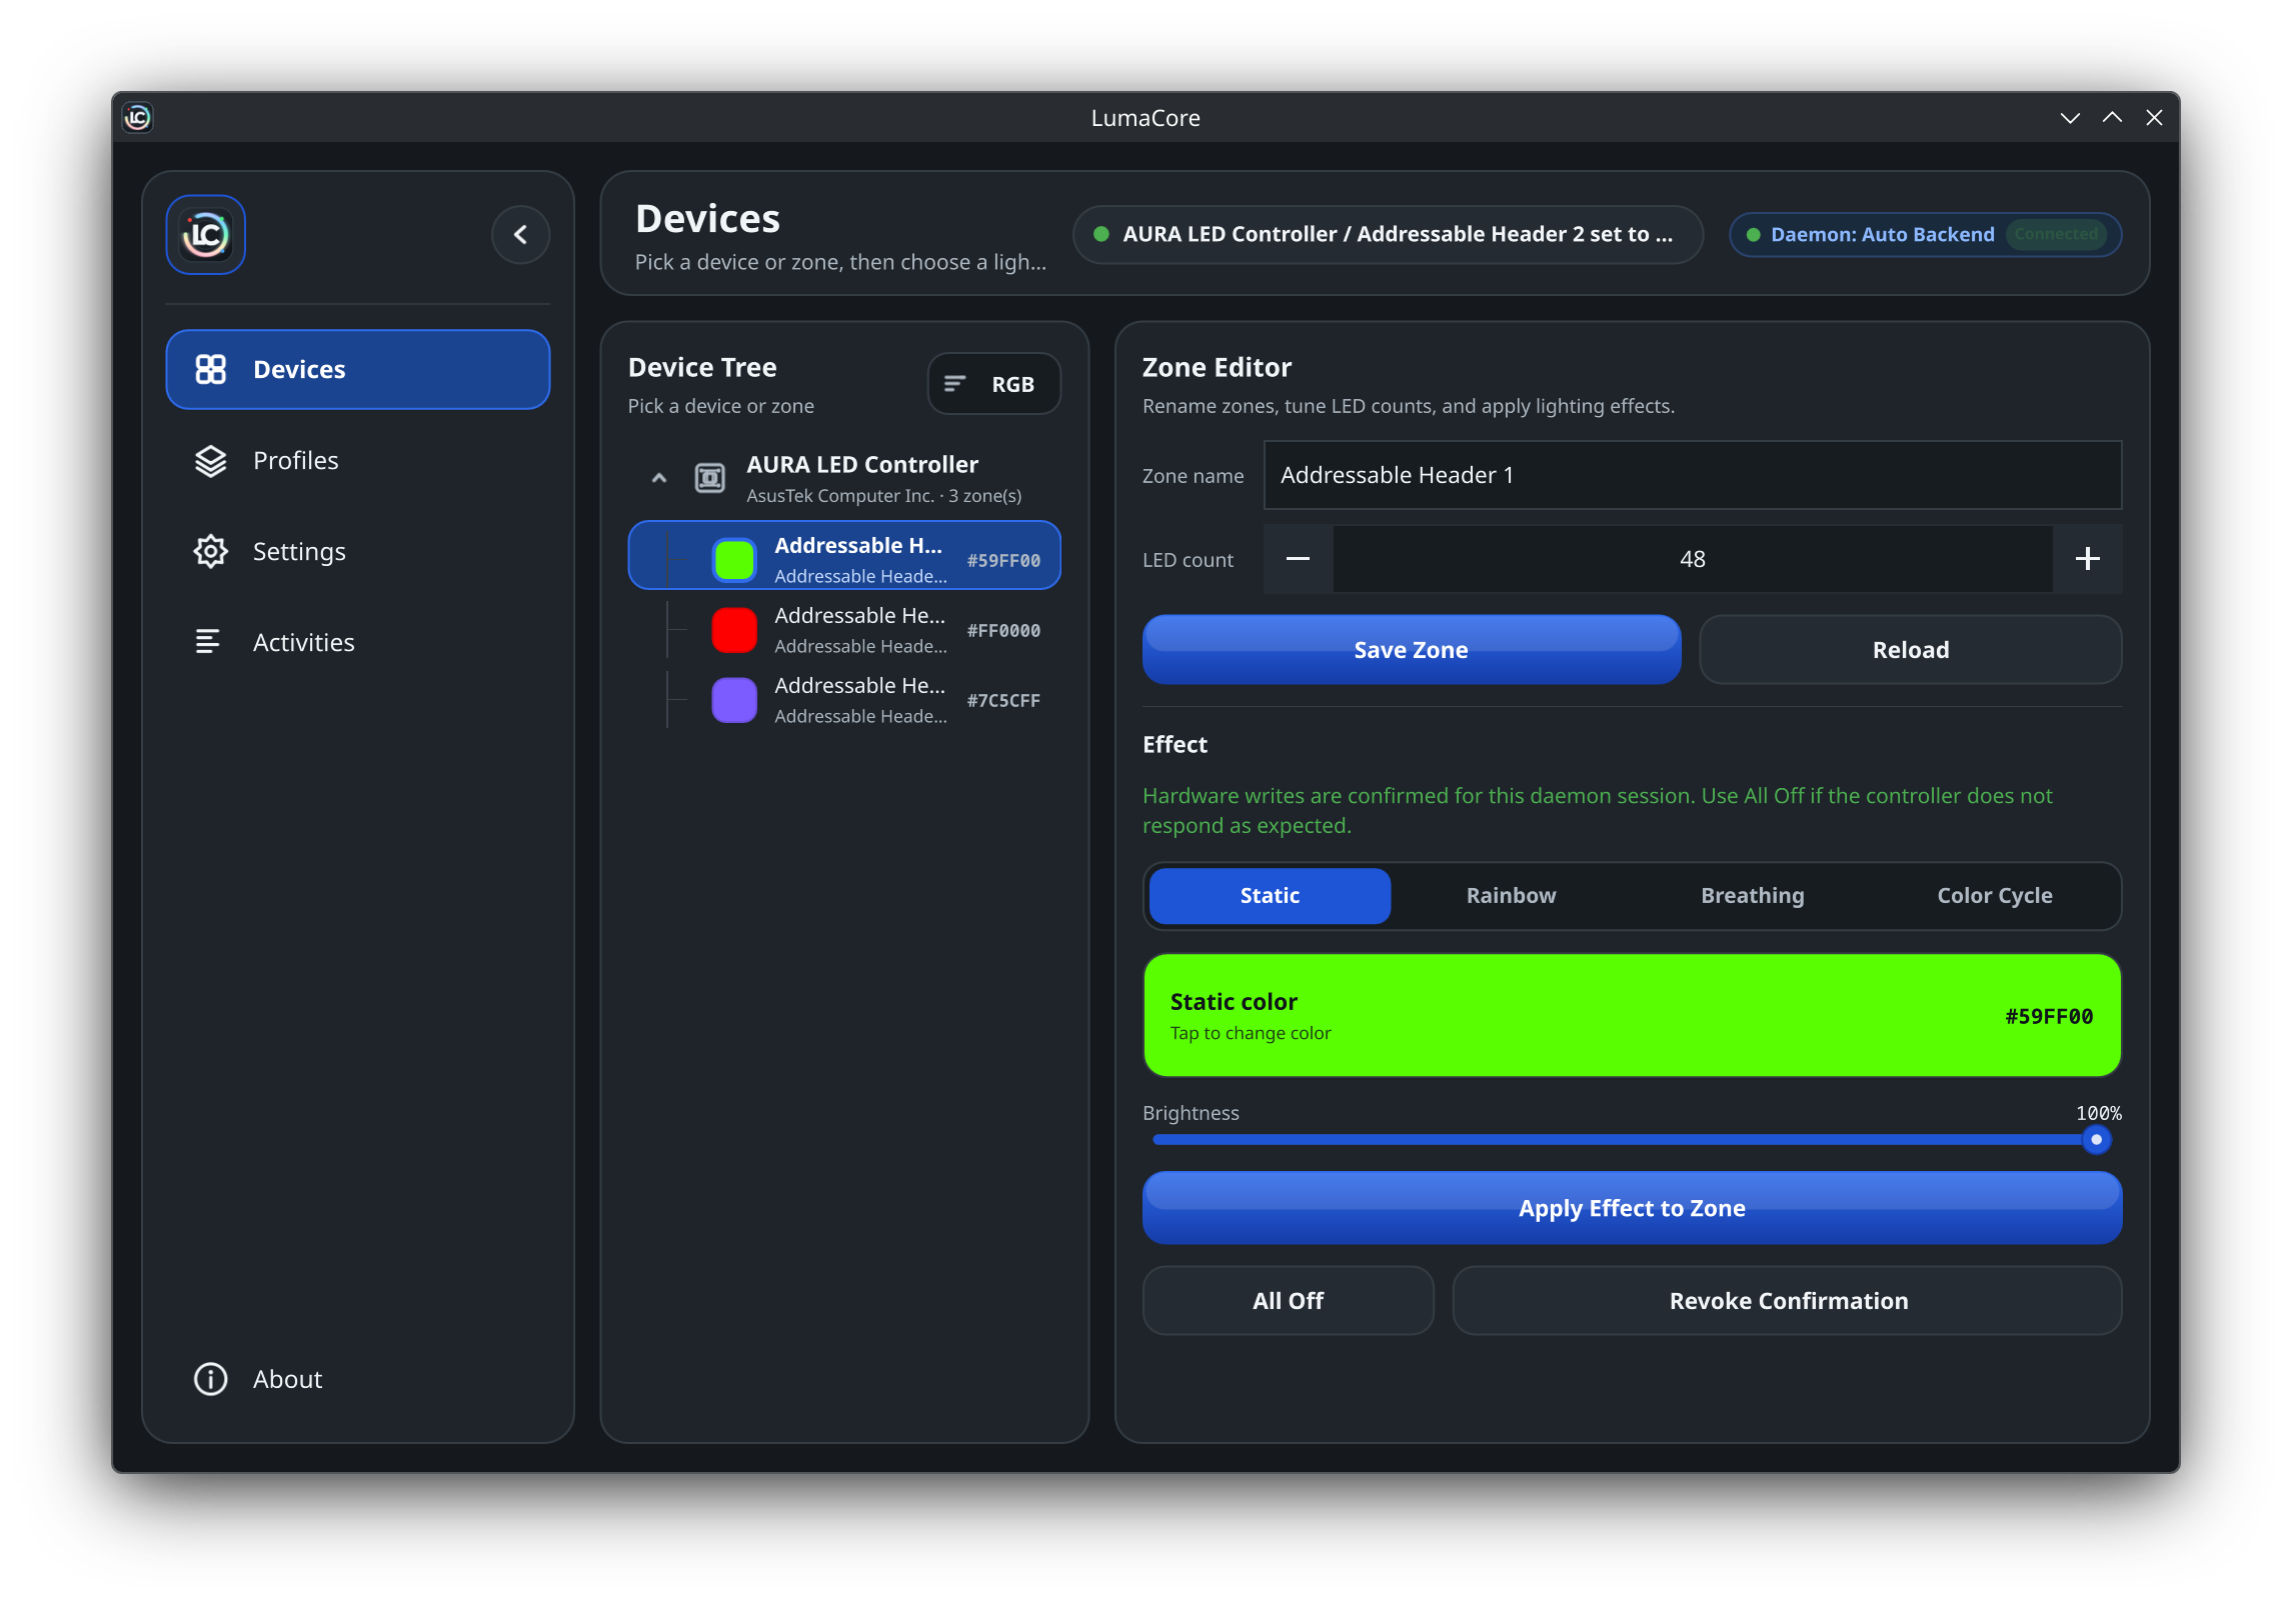
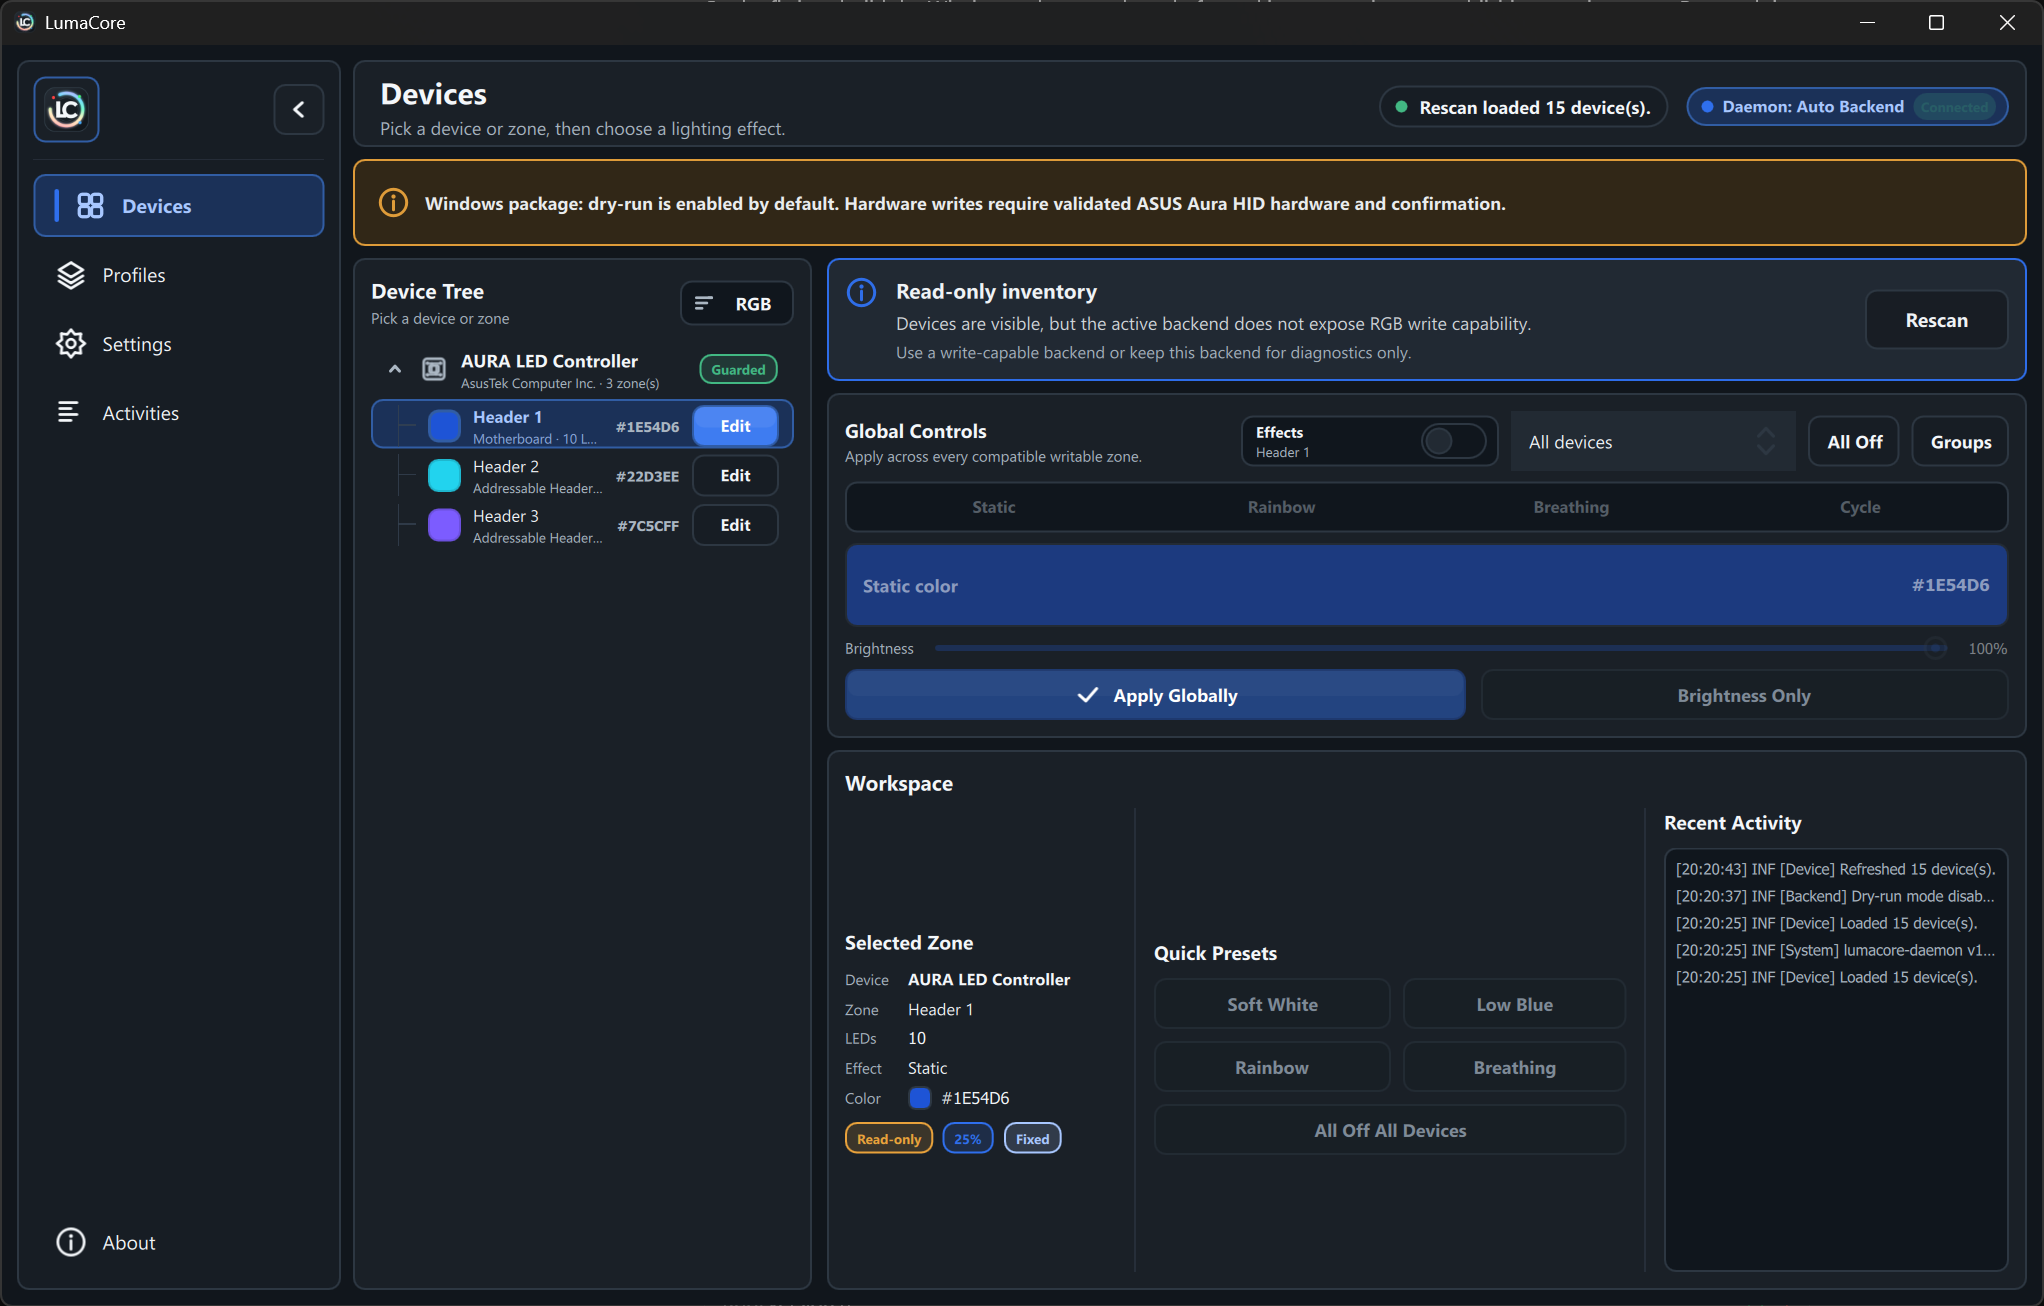
Update release screenshots

diff --git a/README.md b/README.md
@@ -18,11 +18,11 @@ Linux uses a system-style daemon and optional systemd unit. Windows 10/11 x64 us
 
 ![LumaCore Devices view](assets/screenshots/lumacore-devices.png)
 
-![LumaCore ASUS hardware write confirmation](assets/screenshots/lumacore-devices-collapsed-confirmation.png)
+![LumaCore collapsed sidebar devices view](assets/screenshots/lumacore-devices-collapsed.png)
 
 ![LumaCore active backend dialog](assets/screenshots/lumacore-backend-dialog.png)
 
-Light and collapsed-sidebar screenshots are also kept in `assets/screenshots/`.
+Additional light-theme and confirmation screenshots are kept in `assets/screenshots/`.
 
 ## Current Capabilities
 